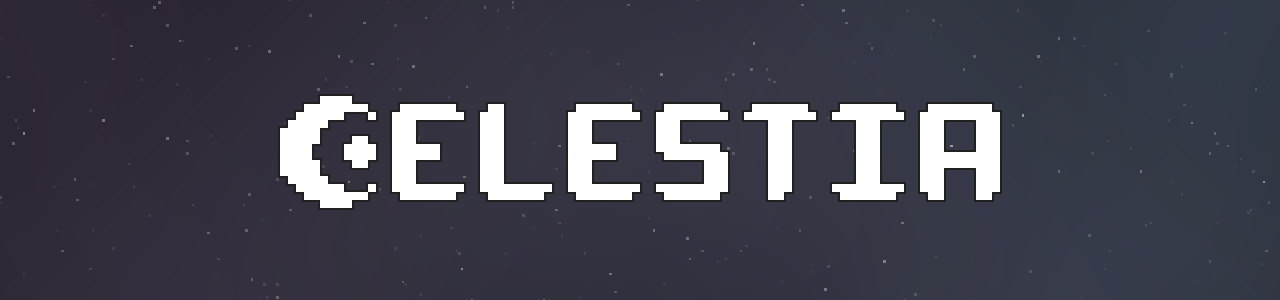
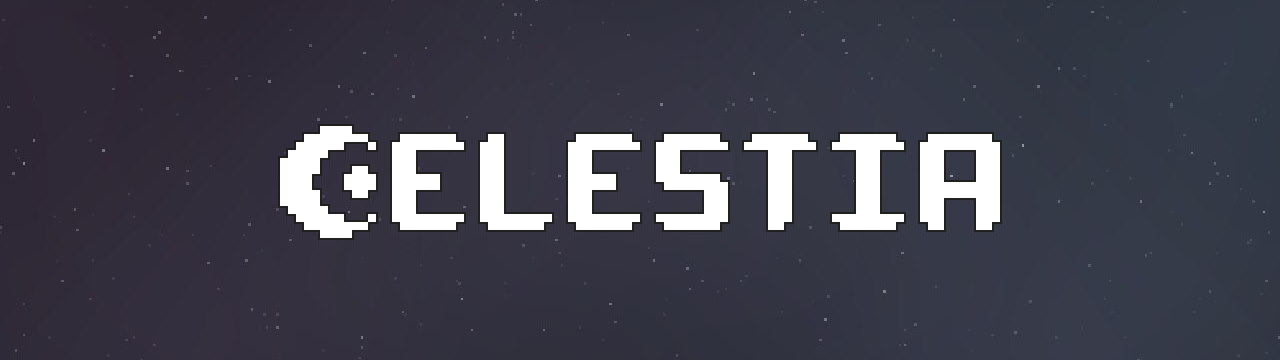
Adjusted main menu background, changes to ReadMe,

diff --git a/source/screens/MainMenuScreen.cs b/source/screens/MainMenuScreen.cs
@@ -38,9 +38,9 @@ namespace Celesteia.Screens {
                 .Build();
 
             new EntityFactory(_world, Game).CreateSkyboxPortion("stars", Color.White, -0.1f, .9f);
-            //new EntityFactory(_world, Game).CreateSkyboxPortion("shadow", Color.White, 1f, 1f, .  8f);
-            new EntityFactory(_world, Game).CreateSkyboxPortion("nebula", new Color(255,165,246,20), -2f, .3f);
-            new EntityFactory(_world, Game).CreateSkyboxPortion("nebula", new Color(165,216,255,45), 3f, .5f);
+            //new EntityFactory(_world, Game).CreateSkyboxPortion("shadow", Color.White, 1f, 1f, .8f);
+            new EntityFactory(_world, Game).CreateSkyboxPortion("nebula", new Color(165,216,255,85), 3f, .5f);
+            new EntityFactory(_world, Game).CreateSkyboxPortion("nebula", new Color(255,165,246,45), -2f, .3f);
 
             this.mainMenu = new MainMenu(Game);
             this.mainMenu.LoadContent();

diff --git a/README.md b/README.md
@@ -2,3 +2,6 @@
 
 # Celesteia
 This repository contains the source code for Celesteia.
+
+## Libraries Used
+- MonoGame.Extended - https://github.com/craftworkgames/MonoGame.Extended
